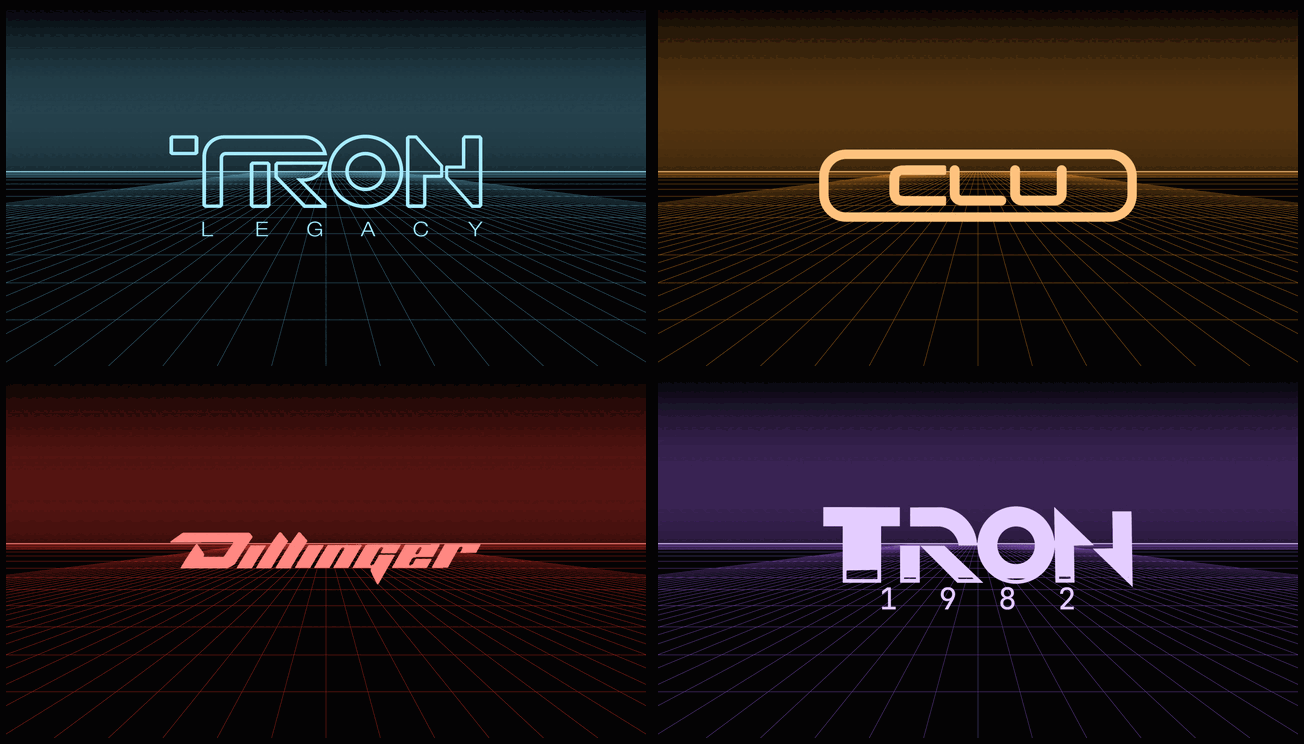
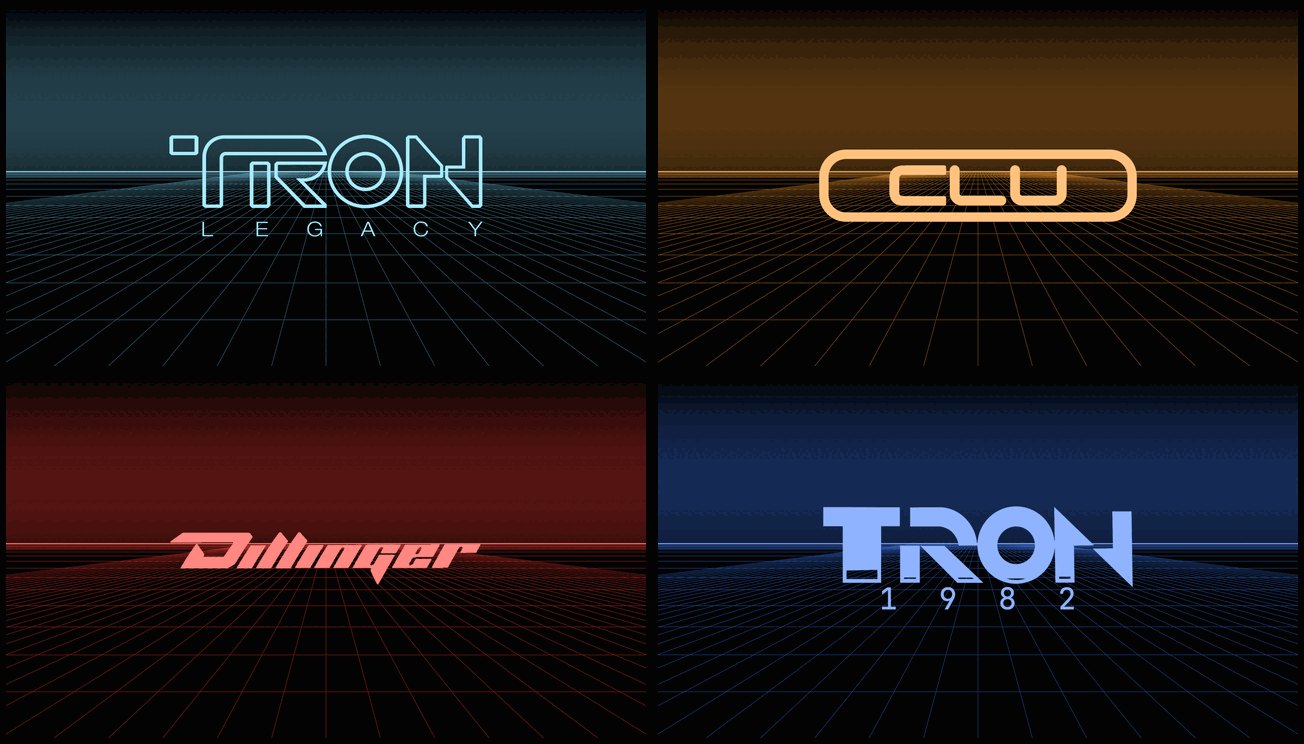
TRON 1982 is blue, not violet
The first film reads blue: its own wordmark is a #1688b9 gradient, and the
transfer sequence peaks around #3b70f6 — measured off both. The theme was
violet, which belongs to no part of it. Its accent is #3b7bff now, the
blue the original game's cycles ran in, with amber still opposite it.

Everything downstream follows: colours, wallpapers, poster, boot art, the
portrait, the cursor, the lock scene's own fallbacks, and the README art.

Changed region(s): [[0.4908, 0.5565, 1.0, 0.8347]]

diff --git a/lock/Digitize.qml b/lock/Digitize.qml
@@ -37,8 +37,8 @@ Item {
   id: field
 
   property var encomPalette: ({})
-  readonly property color accent: encomPalette.accent || "#b06cff"
-  readonly property color accentHi: encomPalette.accentHi || "#e4cdff"
+  readonly property color accent: encomPalette.accent || "#3b7bff"
+  readonly property color accentHi: encomPalette.accentHi || "#cfe0ff"
   readonly property color contrast: encomPalette.contrast || "#ffc300"
   readonly property color contrastHi: encomPalette.contrastHi || "#ffdf78"
   readonly property color ink: encomPalette.ink || "#03030a"

diff --git a/tools/make-theme.py b/tools/make-theme.py
@@ -44,8 +44,10 @@ VARIANTS = {
                   "Clu's grid: amber circuitry, cold cyan alarms."),
     "dillinger-systems": ("#ff3b30", "#7fd0ff", "Dillinger Systems",
                           "Dillinger's grid: crimson circuitry, ice-blue alarms."),
-    "tron-1982": ("#b06cff", "#ffc300", "ENCOM OS-12 — 1982",
-                      "The first grid: violet circuitry, amber alarms."),
+    # The first film reads blue, not violet: its own wordmark is a #1688b9
+    # gradient and the transfer sequence peaks around #3b70f6.
+    "tron-1982": ("#3b7bff", "#ffc300", "TRON 1982",
+                  "The first grid: electric blue circuitry, amber alarms."),
 }
 
 

diff --git a/README.md b/README.md
@@ -1,6 +1,6 @@
 # ENCOM OS-12 for Omarchy
 
-A *Tron: Legacy* desktop for [Omarchy](https://omarchy.org): the ENCOM OS-12 look, from the boot splash to the screensaver, built as a working desktop rather than just a wallpaper. It comes in four themes — TRON Legacy cyan, CLU orange, Dillinger Systems red and TRON 1982 violet.
+A *Tron: Legacy* desktop for [Omarchy](https://omarchy.org): the ENCOM OS-12 look, from the boot splash to the screensaver, built as a working desktop rather than just a wallpaper. It comes in four themes — TRON Legacy cyan, CLU orange, Dillinger Systems red and TRON 1982 electric blue.
 
 ![Desktop](docs/desktop.png)
 
@@ -83,7 +83,7 @@ Even the pointer: one cursor per theme, built from Adwaita's geometry.
 | **TRON Legacy** | Tron cyan, Clu orange for alarms | PROGRAMS vs CLU |
 | **CLU** | Clu's orange, cyan for alarms | CLU vs PROGRAMS |
 | **Dillinger Systems** | Dillinger red over black, ice-blue alarms, and its own wordmark in place of ENCOM's | DILLINGER vs ENCOM |
-| **TRON 1982** | The first film: violet and amber | USERS vs PROGRAMS |
+| **TRON 1982** | The first film: electric blue and amber | USERS vs PROGRAMS |
 
 Switch with Omarchy's own theme menu, where they're listed as *Tron Legacy*, *Clu*, *Dillinger Systems* and *Tron 1982*, or with `omarchy theme set "Tron Legacy"`. Nothing needs rebuilding: every piece reads the current theme's `encom.json` and repaints itself. The Boardroom is recoloured in the browser as it loads: every cyan in it turns the theme's accent and every amber the theme's second colour, each keeping its own lightness so the layout stays readable. Where a theme's accent is a colour the projection already used, the two swap places rather than collapse into one.
 
